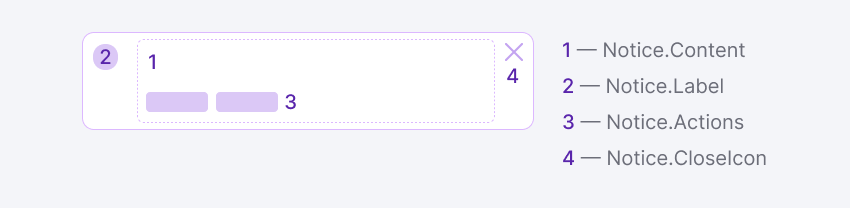
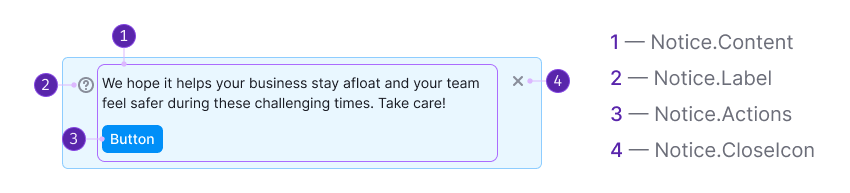
[website] add component composition illustrations

diff --git a/website/docs/components/radio/examples/group.tsx b/website/docs/components/radio/examples/group.tsx
@@ -10,7 +10,7 @@ const Demo = () => {
       <RadioGroup name='radio' value={value} onChange={(v) => setValue(v)}>
         <div role='radiogroup' aria-labelledby='radioGroup'>
           <Text tag='p' id='radioGroup' size={200}>
-            Select value:
+            Select value
           </Text>
           <Flex mt={2}>
             <Radio mr={3}>

diff --git a/website/docs/components/notice/notice.md b/website/docs/components/notice/notice.md
@@ -30,14 +30,18 @@ It must fulfill four criteria to be considered a notice. Let's compare it to [No
 
 @## Component composition
 
+![](static/notice-composition.png)
+
+Notice component consists of:
+
 1. `Notice.Content`
 2. `Notice.Label`. It can be an [icon](/style/icon/), [badge](/components/badge/) or illustration that accompanies the message (optional);
 3. `Notice.Actions` (optional).
 4. `Notice.CloseIcon` (optional);
 
-![](static/notice-composition.png)
-
 @## Notice content examples
+
+@table-caption Notice content examples
 
 |           | Appearance example |
 | --------- | -------------------|

diff --git a/website/docs/components/radio/radio.md b/website/docs/components/radio/radio.md
@@ -12,6 +12,17 @@ tabName: Design
 
 The radio button indicates the user's selection status and is primarily used for group settings with a list of options, where only one can be selected.
 
+@## Component composition
+
+![](static/progressbar-composition.png)
+
+Radio component consists of:
+
+1. `RadioGroup`
+2. `Radio`
+3. `Radio.Value`
+4. `Radio.Text`
+
 @## Sizes and margins
 
 The radio button has two sizes: M and L. The text label is always positioned to the right of the radio button.

diff --git a/website/docs/components/notice-global/notice-global.md b/website/docs/components/notice-global/notice-global.md
@@ -27,6 +27,15 @@ To be considered a notice, it must meet four specific criteria. If it fails to m
 - Notifications about outdated browser versions.
 - Messages related to the entire site's operations, such as downgrades, technical work, and other similar events.
 
+@## Component composition
+
+![](static/notice-global-composition.png)
+
+NoticeGlobal component consists of:
+
+1. `NoticeGlobal.Content`
+2. `NoticeGlobal.CloseIcon` (optional);
+
 @## Styles
 
 ### Paddings

diff --git a/website/docs/components/checkbox/checkbox.md b/website/docs/components/checkbox/checkbox.md
@@ -16,6 +16,16 @@ The checkbox component is used to select one or more options from a list. It dis
 
 Multi-selection, which is commonly used in filters, is the exception to the image above.
 
+@## Component composition
+
+![](static/checkbox-composition.png)
+
+Checkbox component consists of:
+
+1. `Checkbox`
+2. `Checkbox.Value`
+3. `Checkbox.Text`
+
 @## Sizes and margins
 
 ### Sizes

diff --git a/website/docs/components/modal/modal.md b/website/docs/components/modal/modal.md
@@ -34,6 +34,8 @@ Don't show modals before the user has interacted with the interface. **Modal win
 
 @## Component composition
 
+![](static/modal-composition.png)
+
 The modal window consists of:
 
 - `Modal.Window`.
@@ -41,8 +43,6 @@ The modal window consists of:
 - Content.
 - `Modal.Close`.
 - `Modal.Overlay`.
-
-![](static/modal-scheme.png)
 
 @## Modal window types
 
